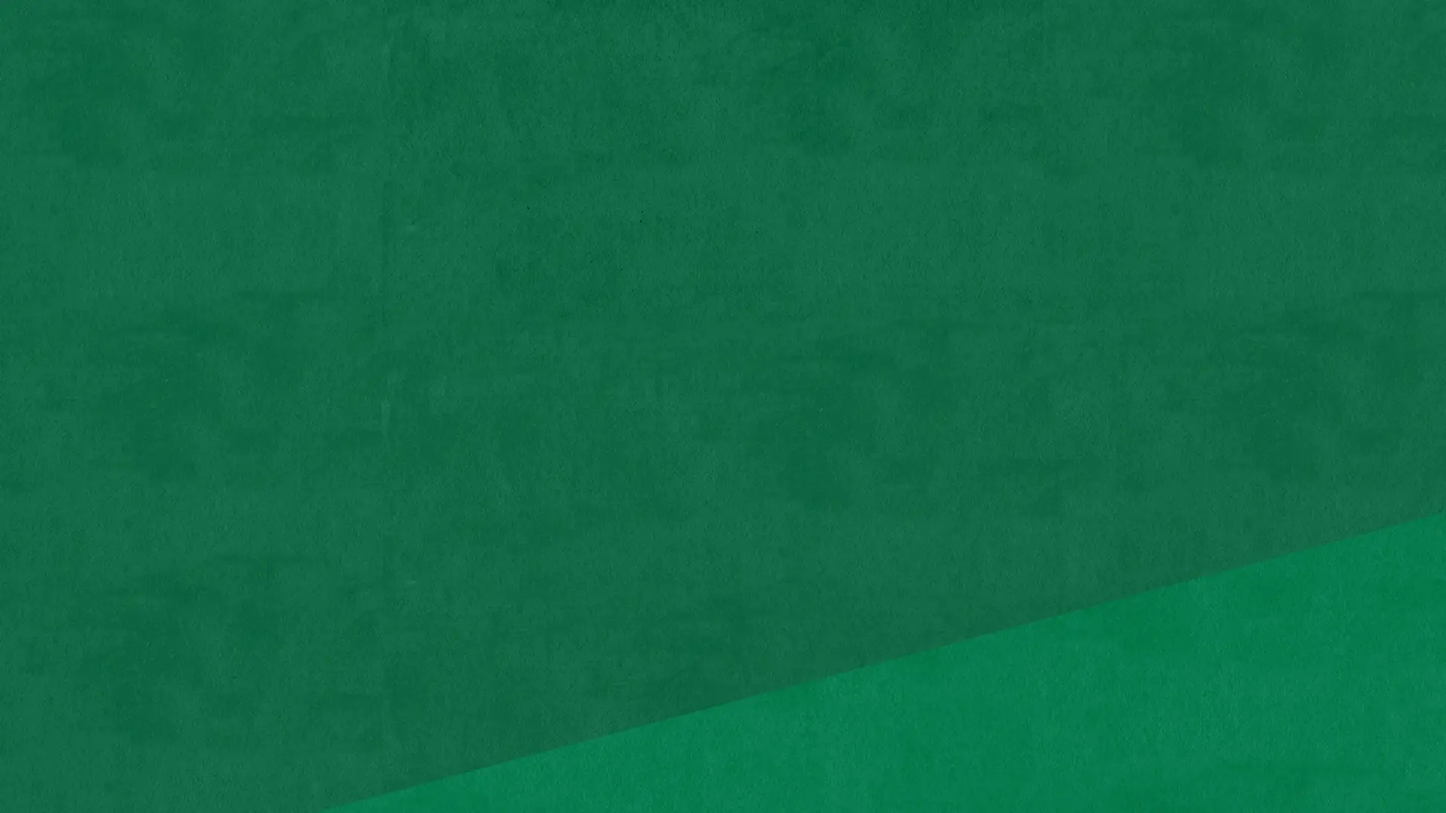
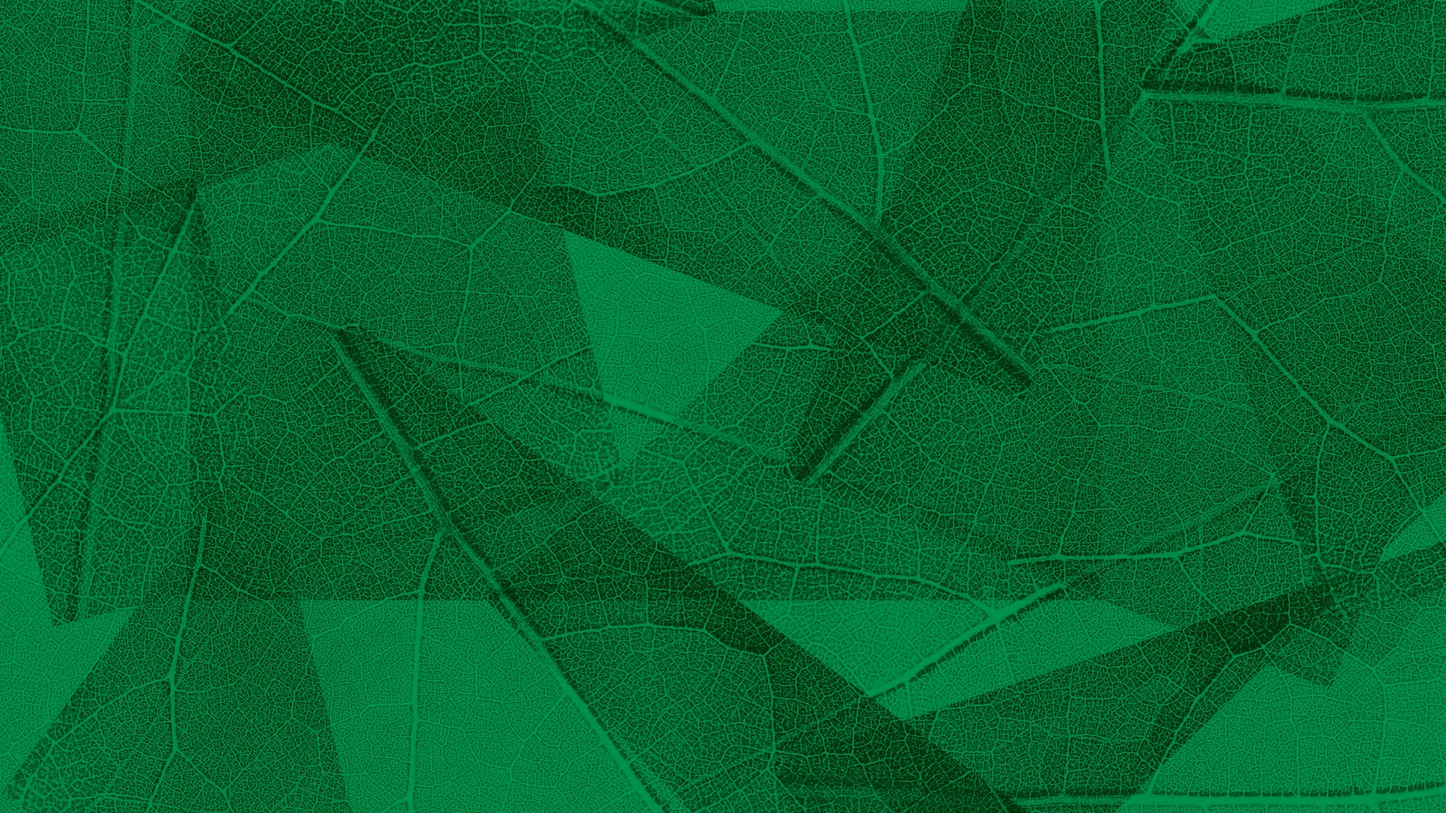
修改

diff --git a/src/section/s1.vue b/src/section/s1.vue
@@ -1,13 +1,15 @@
 <template>
   <article class="s1" id="s1">
 <!--img src="./s1/book.webp" alt="img" class="img" data-aos="fade-left" data-aos-duration="3000" data-aos-delay="0"-->
-<div class="txt">
+<!--div class="txt">
 <h3 class="t1" data-aos="fade-up" data-aos-duration="500" data-aos-delay="0">歡迎回<span>嘉</span><br>開啟幸福篇章</h3>
 <div class="t2" data-aos="fade-up" data-aos-duration="500" data-aos-delay="600">START HAPPINESS</div>
 <h3 class="t3" data-aos="fade-up" data-aos-duration="500" data-aos-delay="0">【嘉義首座日系選冊宅】</h3>
-</div>
-<!--img src="./s1/style1.webp" alt="style1" class="style1" data-aos="fade-left" data-aos-duration="3000" data-aos-delay="0">
-<img src="./s1/style2.webp" alt="style2" class="style2" data-aos="fade-left" data-aos-duration="3000" data-aos-delay="0"-->
+</div-->
+<img src="./s1/logo.svg" alt="logo" class="logo" data-aos="fade-left" data-aos-duration="3000" data-aos-delay="0">
+<img src="./s1/title.svg" alt="title" class="title" data-aos="fade-left" data-aos-duration="3000" data-aos-delay="0">
+<img src="./s1/style.svg" alt="style" class="style" data-aos="fade-left" data-aos-duration="3000" data-aos-delay="0">
+<img src="./s1/logoicon.svg" alt="logoicon" class="logoicon" data-aos="fade-left" data-aos-duration="3000" data-aos-delay="0">
   </article>
 </template>
 
@@ -24,21 +26,35 @@
 .s1 {
   
   @apply relative w-full h-screen;
-  min-height: size(900);
-  max-height: size(900);
+  min-height: size(1080);
+  max-height: size(1080);
   display: flex;
   flex-direction: column;
   justify-content: center;
   align-items:center;
   font-size:size(36);
   //background: #E60012;
-  background: url("./s1/bg.jpg");
+  background: url("./s1/bg.webp");
 
   background-size: cover;
 
     .img{position: absolute;width: size(740);left: size(187);
     top:calc(50% + #{size(320 - 540)});
     z-index: 99;
+    }
+
+    .style{
+      position: absolute;
+      width: size(1163);
+      right: size(-10);
+      bottom: size(-80);
+    }
+
+    .logoicon{
+      position: absolute;
+      width: size(200);
+      right: size(20);
+      bottom: size(20);
     }
 
     .style1{
@@ -53,6 +69,21 @@
     right: size(119);
     top:size(350);
     mix-blend-mode: soft-light;
+  }
+  
+
+  .logo{
+    position: absolute;
+    width: size(700);
+    left: size(250);
+    top:size(200);
+  }
+
+  .title{
+    position: absolute;
+    width: size(700);
+    left: size(250);
+    top:size(500);
   }
 
     .txt{
@@ -114,8 +145,33 @@
     min-height: sizem(667);
     max-height: sizem(812);
     font-size:sizem(15);
-    background: url("./s1/bgm.jpg");
+    background: url("./s1/bgm.webp");
     background-size: auto 100%;
+
+
+    .style{
+      width: sizem(450);
+      right: sizem(-10);
+      bottom: sizem(-40);
+    }
+
+    .logo{
+    width: sizem(300);
+    left: sizem(35);
+    top:sizem(100);
+  }
+
+  .logoicon{
+      width: sizem(100);
+      right: sizem(10);
+      bottom: sizem(10);
+    }
+
+  .title{
+    width: sizem(300);
+    left: sizem(35);
+    top:sizem(240);
+  }
 
 
 .img{

diff --git a/src/info/index.js b/src/info/index.js
@@ -1,4 +1,4 @@
-const caseName = "佳展建設"
+const caseName = "佳展大嘉"
 
 export default {
     meta: {
@@ -11,7 +11,7 @@ export default {
    // address: "台南市安平區府前四街147號",
     googleSrc: "https://www.google.com/maps/embed?pb=!1m18!1m12!1m3!1d3672.739139123935!2d120.1852493!3d22.9966181!2m3!1f0!2f0!3f0!3m2!1i1024!2i768!4f13.1!3m3!1m2!1s0x346e77584e24e507%3A0xa92f1e0817f0a8ce!2z5aaC6YKRMl_oh6rlhqDlu7roqK1f5Yud5YGV6ZuG5ZyY!5e0!3m2!1szh-TW!2stw!4v1697008525183!5m2!1szh-TW!2stw",
     googleLink: "https://maps.app.goo.gl/y5xEjE4vDDsfydrf6",
-    phone: "",
+    phone: "05-285-2333",
     fbLink: "https://www.facebook.com/61554828582073/",
     fbMessage: "https://m.me/61554828582073/",
     caseName: caseName,

diff --git a/src/pages/Home.vue b/src/pages/Home.vue
@@ -11,8 +11,8 @@
   <!--loading end-->
    <Nav v-if="info.navList.length > 0" />
   <div class="home overflow-hidden font-['Noto_Sans_TC',sans-serif]">
-       <img src="@/section/s1/bg.webp" class="bgh" v-if="!$isMobile()">
-       <img src="@/section/s1/bgm.webp" class="bgh" v-else>
+       <!--img src="@/section/s1/bg.webp" class="bgh" v-if="!$isMobile()">
+       <img src="@/section/s1/bgm.webp" class="bgh" v-else-->
     <S1 />
     <!-- <S2v /> -->
   <!--

diff --git a/src/section/order.vue b/src/section/order.vue
@@ -109,6 +109,9 @@
 .order {
   width: 100%;
   padding-top: 0;
+  //background: #195c45;
+  background: linear-gradient(to bottom, #195c45, #000704);
+  
 
   .bird {
     @apply absolute;
@@ -210,7 +213,7 @@
     letter-spacing: 0.9em;
     text-indent: 0.9em;
     color: #FFF;
-    background-color: #00312E;
+    background-color: #ca9e25;
     //border: 1px solid #FFF9;
     border:0;
     border-radius: 0em;

diff --git a/src/section/form/contactInfo.vue b/src/section/form/contactInfo.vue
@@ -139,7 +139,7 @@
     // min-width: 680px;
 
     .contact-item {
-      background-color: #00312E;
+      background-color: #ca9e25;
       color: #FFF;
       width: 100%;
       flex: 1;
@@ -156,7 +156,7 @@
       gap: 1em;
 
       &:hover {
-        background-color: #001d1a;
+        background-color: #ac810c;
         color: #fff;
 
         img {
